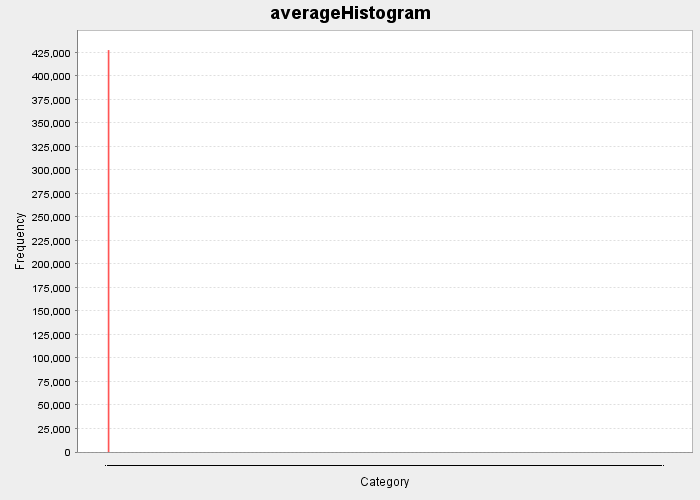
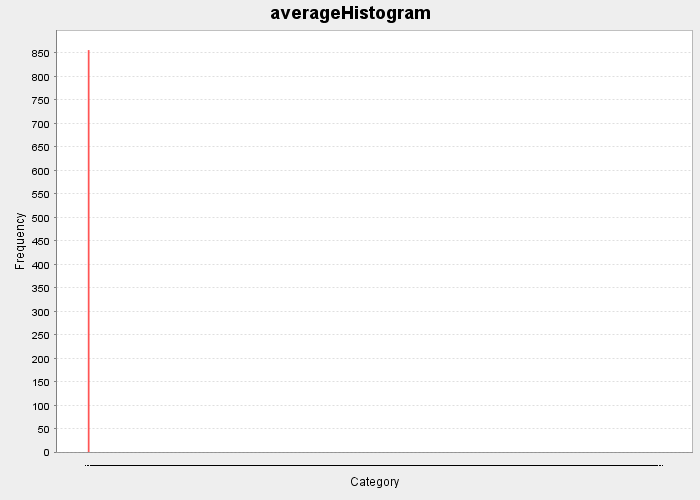
changed quan error to an avg

Changed region(s): [[0.03, 0.09, 0.18, 0.9], [0.51, 0.96, 0.57, 0.99]]

diff --git a/src/Main.java b/src/Main.java
@@ -415,7 +415,7 @@ public class Main {
         if (quantizationTime > 0) {
             System.out.println("\nQuantization processing time for the entire batch (ms): " + quantizationTime);
             System.out.println("Average quantization processing time (ms): " + quantizationTime / files.length);
-            System.out.println("total meanSquaredError: " + meanSquaredError); // TODO whats an acceptable/expected one
+            System.out.println("Average meanSquaredError: " + meanSquaredError / files.length); // TODO whats an acceptable/expected one
         }
         if (saltAndPepperTime > 0) {
             System.out.println("\nAdding salt and pepper noise processing time for the entire batch (ms): " + saltAndPepperTime);

diff --git a/src/Quantization.java b/src/Quantization.java
@@ -116,6 +116,6 @@ public class Quantization {
             }
         }
 
-        return meanSquaredError;
+        return meanSquaredError / (originalImage.getWidth() * originalImage.getHeight());
     }
 }
